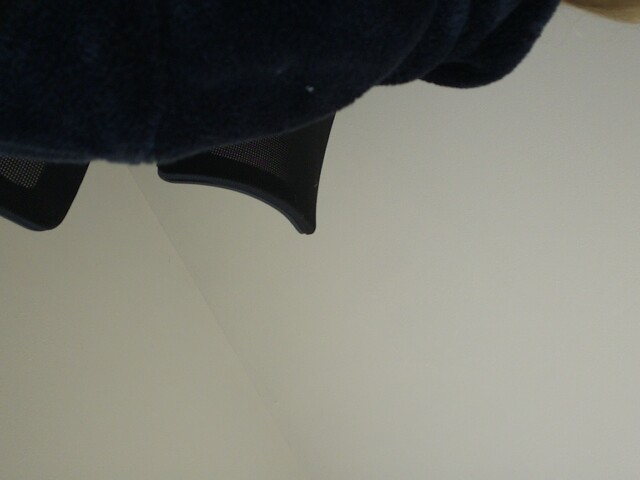
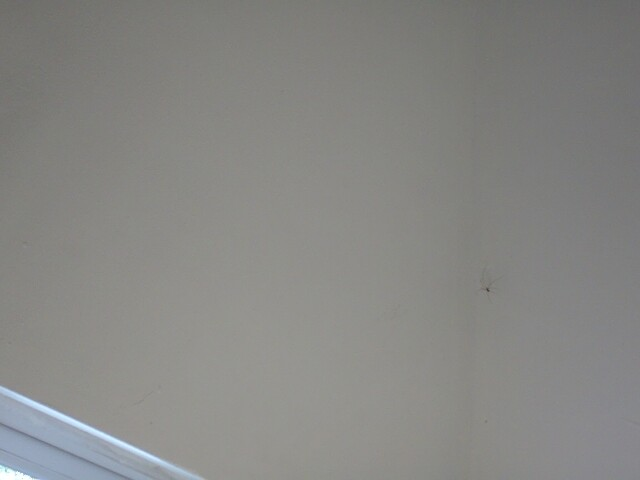
Final version: camera system with HTTP, Flask dashboard, styling and background image

diff --git a/templates/status.html b/templates/status.html
@@ -1,0 +1,102 @@
+<!doctype html>
+
+<html>
+
+<head>
+    <title>Smart Camera Monitor</title>
+<button onclick="refreshPage()" style="
+    padding: 10px;
+    margin-bottom: 15px;
+    background-color: #38bdf8;
+    border: none;
+    border-radius: 5px;
+    color: black;
+    font-weight: bold;
+    cursor: pointer;
+">
+    Refresh Dashboard
+</button>
+
+    <style>
+        body {
+            background-image: url('/static/security.jpg');
+            background-size: cover;
+            background-position: center;
+            background-repeat: no-repeat;
+            color: white;
+        }
+
+        .container {
+            background: rgba(0, 0, 0, 0.6);
+            padding: 20px;
+            border-radius: 10px;
+        }
+    </style>
+
+</head>
+
+<script>
+function refreshPage() {
+    location.reload();
+}
+</script>
+
+
+
+<body style="
+    background-image: url('/static/security.jpg');
+    background-size: cover;
+    background-position: center;
+    background-repeat: no-repeat;
+">
+
+
+    <div style="
+    max-width: 700px;
+    margin: auto;
+    background: rgba(0, 0, 0, 0.7);
+    padding: 20px;
+    border-radius: 10px;
+">
+
+
+        <h1>Smart Camera Monitor</h1>
+
+        <hr>
+
+        <h2>Latest Event</h2>
+
+        {% if last_event %}
+            <p><strong>Timestamp:</strong> {{ last_event.timestamp }}</p>
+            <p><strong>Event:</strong> {{ last_event.event }}</p>
+        {% else %}
+            <p>No event received yet.</p>
+        {% endif %}
+
+        <hr>
+
+        <h2>Latest Image</h2>
+        <img src="/static/last_capture.jpg" style="width:100%; border-radius:8px;">
+
+        <hr>
+
+        <h2>API Description</h2>
+
+        <table border="1" cellpadding="8" cellspacing="0" style="width:100%;">
+            <thead>
+                <tr>
+                    <th>Path</th>
+                    <th>Method</th>
+                    <th>Description</th>
+                </tr>
+            </thead>
+            <tbody>
+                <tr>
+                    <td>/data</td>
+                    <td>POST</td>
+                    <td>Receive camera event data</td>
+                </tr>
+                <tr>
+                    <td>/</td>
+                    <td>GET</td>
+                    <td>Display dashboard</td>

diff --git a/server.py b/server.py
@@ -1,15 +1,48 @@
 #/bin/bash
 #Author:Roisin Russell
-# Program Description: Import flask to recieve data
+# Program Description: Import flask to receive
 
-from flask import Flask, request
+import json
+import os
+from flask import Flask, request, render_template
 
-app = Flask(__name__)
+BASE_DIR = os.path.dirname(os.path.abspath(__file__))
 
-@app.route('/data', methods=['POST'])
+DATA_DIR = os.path.join(BASE_DIR, "data")
+os.makedirs(DATA_DIR, exist_ok=True)
+DATA_PATH = os.path.join(DATA_DIR, "data.json")
+
+app = Flask(__name__, static_folder="static", template_folder="templates")
+
+
+@app.route("/data", methods=["POST"])
 def receive_data():
     data = request.json
+
+    # Save latest event to file (so dashboard can read it)
+    with open(DATA_PATH, "w") as f:
+        json.dump(data, f)
+
     print("Received data:", data)
     return {"status": "ok"}
 
-app.run(host='0.0.0.0', port=5000)
+
+def load_latest_event():
+    try:
+        with open(DATA_PATH, "r") as f:
+            return json.load(f)
+    except FileNotFoundError:
+        return None
+    except Exception as e:
+        print("Error reading data.json:", e)
+        return None
+
+
+@app.route("/", methods=["GET"])
+def dashboard():
+    last_event = load_latest_event()
+    return render_template("status.html", last_event=last_event)
+
+
+if __name__ == "__main__":
+    app.run(host="0.0.0.0", port=5000, debug=False)
